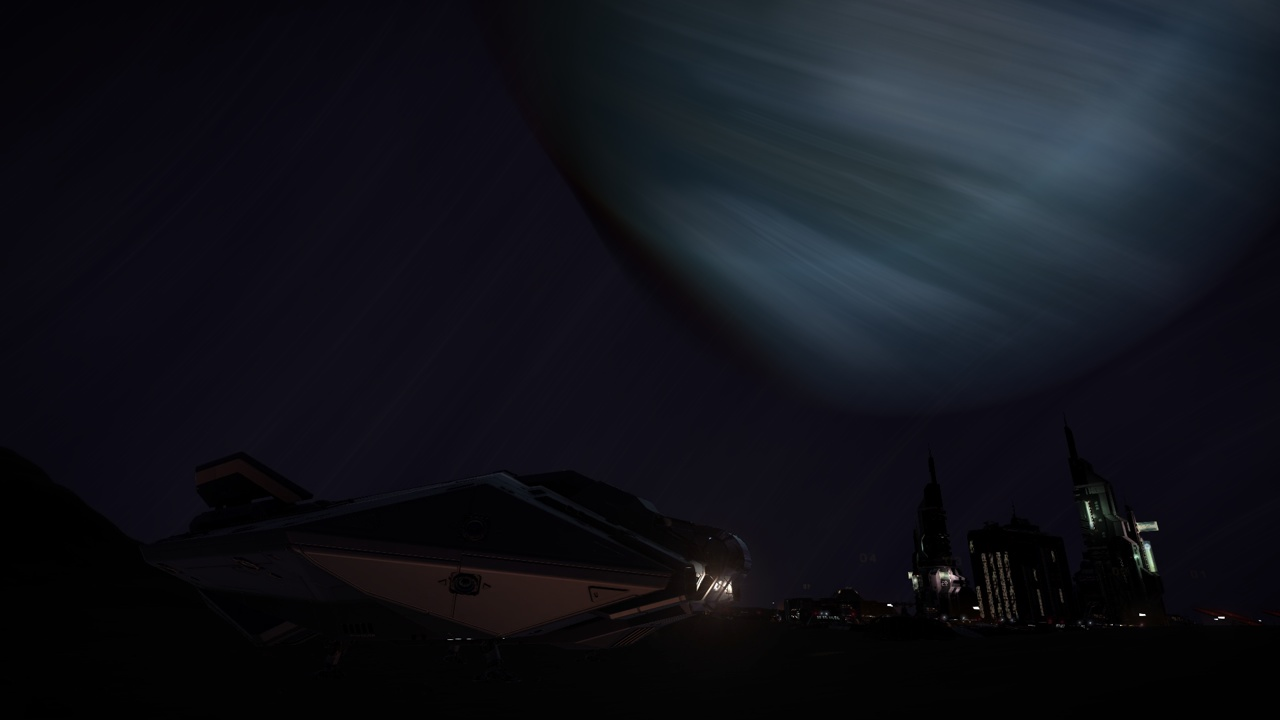
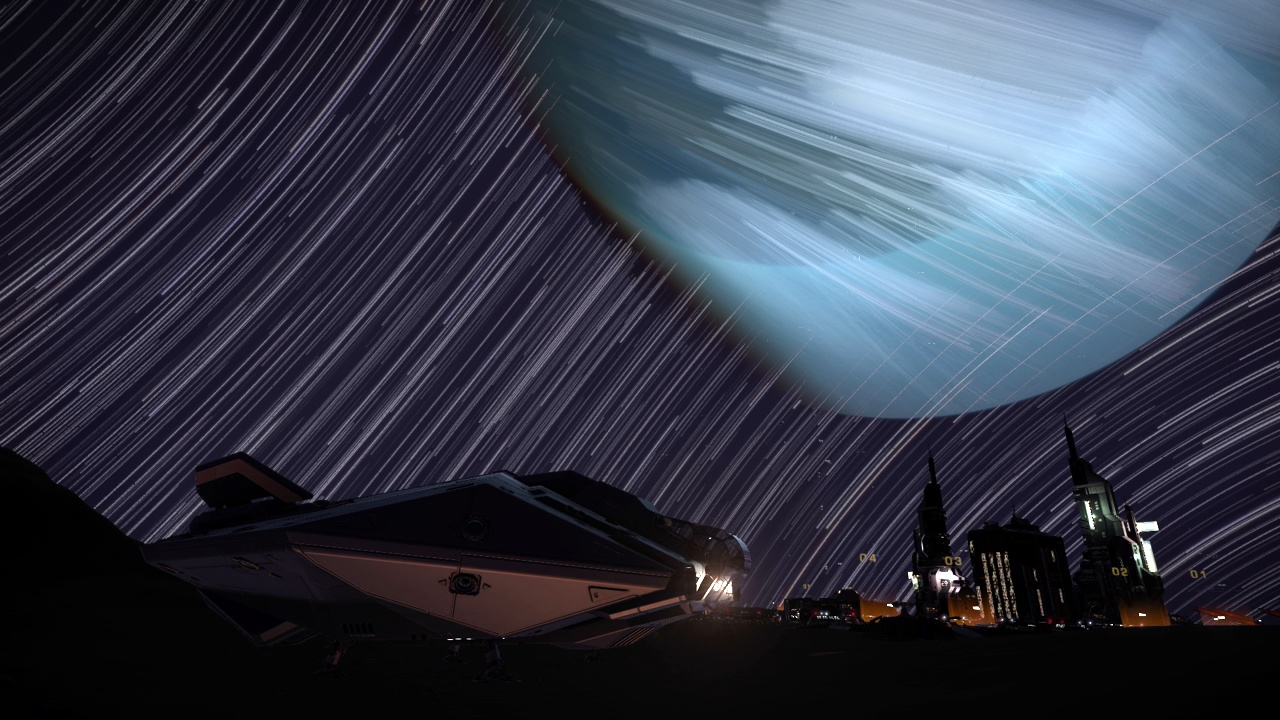
re-did the way it handles threads. now scales based on given chunk size, and optimized what needs to be locked or not

diff --git a/main.py b/main.py
@@ -22,8 +22,6 @@ class ti:
 
 class long_exposure_generator:
 
-    n_fact = 0.8
-
     def __init__(self, file_name):
 
         self.ti = ti()
@@ -36,6 +34,7 @@ class long_exposure_generator:
         self.finished_frames = 0
 
         frame_process_count = 100
+
 
         self.exposure_lock = threading.Lock()
         #self.max_check_lock = threading.Lock()
@@ -58,8 +57,6 @@ class long_exposure_generator:
             self.max_frame_buffer_1 = []
             self.max_frame_buffer_2 = []
 
-            self.ti.r()
-
             for i in range(frame_process_count):
 
                 frames_available, frame = self.video_capture.read()
@@ -70,21 +67,19 @@ class long_exposure_generator:
                 self.frame_buffer.append(frame)
                 self.max_frame_buffer_1.append(frame)
 
-            #max_thread = threading.Thread(target=self.process_max)
+            max_thread = threading.Thread(target=self.process_max)
             exposure_thread = threading.Thread(target=self.process_exposure)
 
-            #max_thread.daemon = True
+            max_thread.daemon = True
             exposure_thread.daemon = True
 
-            #max_thread.start()
+            max_thread.start()
             exposure_thread.start()
 
-            #max_thread.join()
+            max_thread.join()
             exposure_thread.join()
 
-            self.ti.c("main")
 
-            #exit()
 
         # self.frame_buffer = []
         #
@@ -125,11 +120,24 @@ class long_exposure_generator:
         #
         # self.long_exposure_output = np.clip(self.long_exposure_output, 0, 255*self.frame_count) / self.frame_count
 
-        # final = np.clip(self.long_exposure_output + self.max_frame*max_mult_factor,0,255)
-        # final = np.uint8(final)
+        max_mult_factor = 0.5
+
+        self.frame_accu_1 = np.clip(self.frame_accu_1, 0, 255*self.frame_count) / self.frame_count
+        #self.frame_accu_1 = np.clip(self.frame_accu_1, 0, 255*frame_process_count) / frame_process_count
+
+        final = np.clip(self.frame_accu_1 + self.max_frame*max_mult_factor,0,255)
+        final = np.uint8(final)
+
+        #cv2.imshow("image", final)
+        #cv2.waitKey(0)
+
         print("writing")
-        cv2.imwrite(file_name[:file_name.rfind(".")] + ".jpg", self.max_frame)  # save frame as JPEG file
+        cv2.imwrite(file_name[:file_name.rfind(".")] + ".jpg", final)  # save frame as JPEG file
+
+        self.ti.c("main")
+
         #print("done. took", time.time() - ts, "s using", max_thread_count, "threads")
+
         exit()
 
     def process_max(self):
